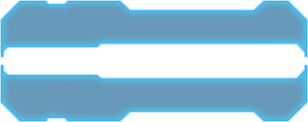
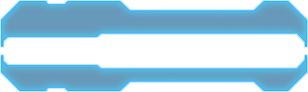
=Puts unused assets in unused folder =Names assets better

diff --git a/SBMS.html b/SBMS.html
@@ -32,7 +32,7 @@
 
 <div id="container">
     <div id="leftPanel">
-        <div class="thick-panel">
+        <div class="panel">
             <span class="section-title">Info</span>
             <div id="first">
                 <div class="infoBar">
@@ -67,7 +67,7 @@
                 </div>
             </div>
         </div>
-        <div class="thick-panel">
+        <div class="panel">
             <span class="section-title">Status</span>
             <div id="second">
                 <!--<meter id='bat' style='height: 40px; width: 220px; top: 9px;' min='0' low='20' max='100'></meter>-->
@@ -92,7 +92,7 @@
                 </div>
             </div>
         </div>
-        <div class="thick-panel">
+        <div class="panel">
             <span class="section-title">Cells</span>
             <div id="third">
                 <!--
@@ -173,7 +173,7 @@
     </div>
 
     <div id="rightPanel">
-        <div id="date-time" class="slim-panel" style="height: 145px;">
+        <div id="date-time" class="simple-panel" style="height: 145px;">
             <time id="date"></time>
             <time id="time"></time>
             <div class="button-container">
@@ -181,7 +181,7 @@
                 <button onclick="localStorage.removeItem('sbms');localStorage['sbms'] ='';">CLEAR LOG</button>
             </div>
         </div>
-        <div id="details" class="slim-panel" style="height: 145px;">
+        <div id="details" class="simple-panel" style="height: 145px;">
             <div3>
                 <div2 style="color:#00a9da;top:22px;" id="d6">
                     Batt<br>PV1<br>PV2<br>PV1+PV2<br>Load<br>ExtLd
@@ -229,7 +229,7 @@
             </div3>
         </div>
 
-        <div class="slim-panel">
+        <div class="simple-panel">
             <div class="graph-panel">
                 <div class="fan">
                     <img id="fan0-0" src="fan.png"/>
@@ -264,7 +264,7 @@
             </div3>
         </div>
 
-        <div class="slim-panel">
+        <div class="simple-panel">
             <div class="graph-panel">
                 <div class="fan">
                     <img id="fan3-0" src="fan.png"/>
@@ -299,7 +299,7 @@
             </div3>
         </div>
 
-        <div class="slim-panel">
+        <div class="simple-panel">
             <div class="graph-panel">
                 <div class="fan">
                     <img id="fan6-0" src="fan.png"/>

diff --git a/marco.css b/marco.css
@@ -253,19 +253,19 @@ div {
     float: none;
 }
 
-.thick-panel {
+.panel {
     display: block;
     position: relative;
     margin-bottom: 20px;
     border-style: solid;
     border-width: 53px 227px 45px 76px;
-    -moz-border-image: url(boundaries-small.png) 53 227 45 76 repeat;
-    -webkit-border-image: url(boundaries-small.png) 53 227 45 76 repeat;
-    -o-border-image: url(boundaries-small.png) 53 227 45 76 repeat;
-    border-image: url(boundaries-small.png) 53 227 45 76 repeat;
+    -moz-border-image: url(boundaries.png) 53 227 45 76 repeat;
+    -webkit-border-image: url(boundaries.png) 53 227 45 76 repeat;
+    -o-border-image: url(boundaries.png) 53 227 45 76 repeat;
+    border-image: url(boundaries.png) 53 227 45 76 repeat;
 }
 
-.slim-panel {
+.simple-panel {
     display: block;
     position: relative;
     margin-bottom: 10px;
